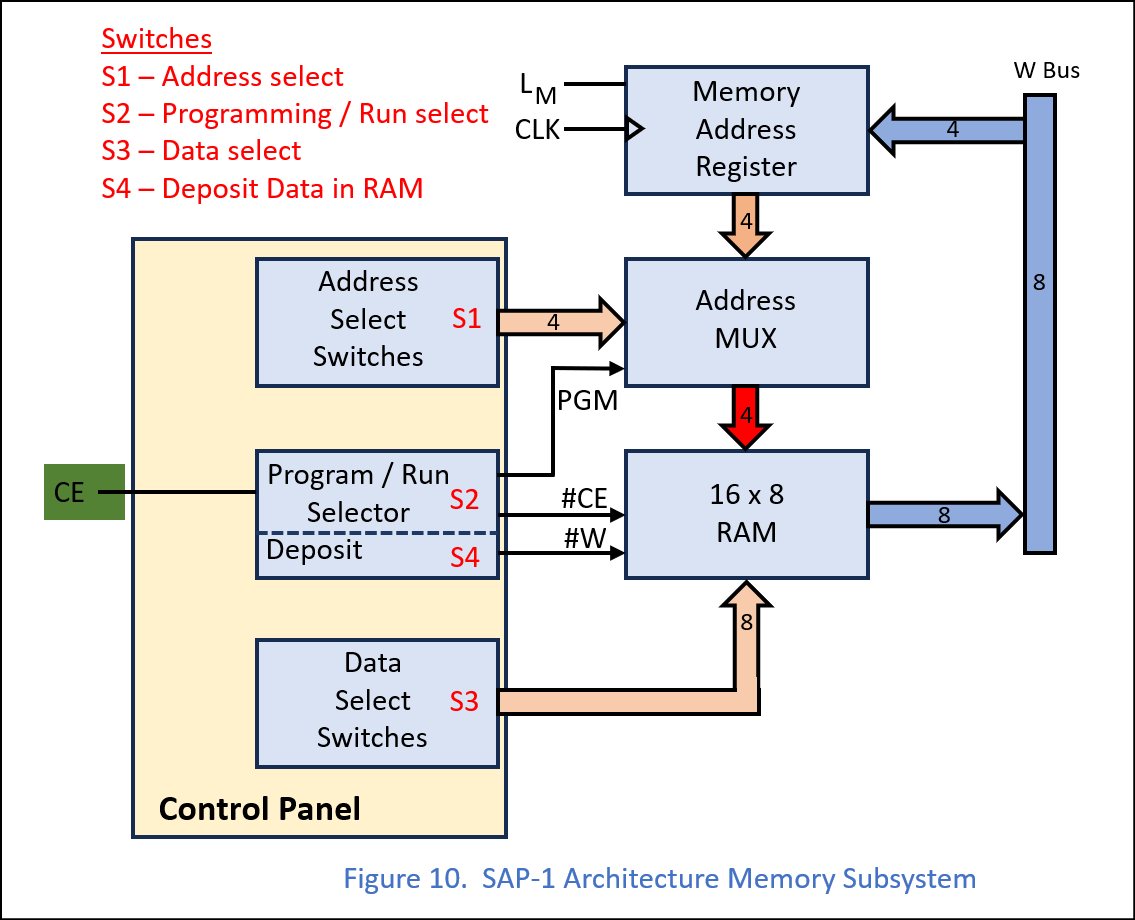
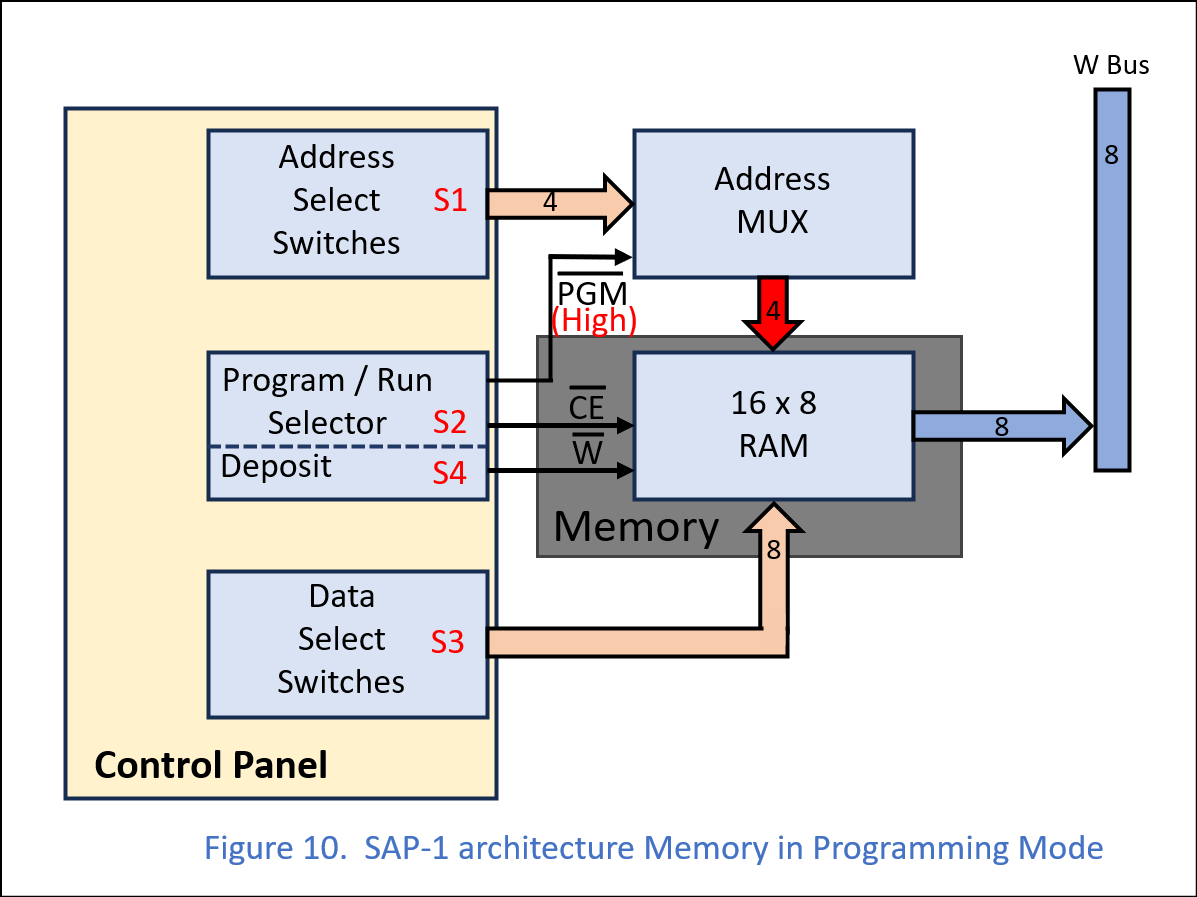
modified:   SAP-1_Computer/Pictures/Figure10.png

diff --git a/SAP-1_Computer/README.md b/SAP-1_Computer/README.md
@@ -100,19 +100,19 @@ From this Diagram the Multiplexer can be ignored and we can obtain a simpler and
 
 ![ Figure 9 ](https://github.com/LincaMarius/ISAP-1_Computer_Project/blob/main/SAP-1_Computer/Pictures/Figure9.png)
 
-Thus, the Memory of the SAP-1 Computer in Run Mode is used as a ROM memory. Control input #CE if high disables the output which is three-state, and if low at the output, the data from the address selected by the Memory Address Register is presented on the Bus.
+Thus, the Memory of the SAP-1 Computer in Run Mode is used as a ROM memory. Control input /CE if high disables the output which is three-state, and if low at the output, the data from the address selected by the Memory Address Register is presented on the Bus.
 
-In this case, the CE control signal has the #CE function for chip activation but also the #OE (Output Enable) function specific to ROM memories.
+In this case, the /CE control signal has the #CE function for chip activation but also the #OE (Output Enable) function specific to ROM memories.
 
-When switch S2 is in the “Program” Position, the PGM signal is high and causes the Address Multiplexer to select the address from the input connected to Address Select Switches S1.
+When switch S2 is in the “Program” Position, the /PGM signal is high and causes the Address Multiplexer to select the address from the input connected to Address Select Switches S1.
 
-The control input #CE is set low, so at the Memory output, the Data from the Address selected by the Address Select Switches S1 are presented on the Bus.
+The control input /CE is set low, so at the Memory output, the Data from the Address selected by the Address Select Switches S1 are presented on the Bus.
 
-If the S4 (Deposit) switch is pressed, the #W control signal is set to the low value, which causes the Data present at the input pins whose values are set by the switches marked S3 (Data Select Switches) to be written to the Selected Address.
+If the S4 (Deposit) switch is pressed, the /W control signal is set to the low value, which causes the Data present at the input pins whose values are set by the switches marked S3 (Data Select Switches) to be written to the Selected Address.
 
 The Block Diagram of the Memory Block in Programming Mode is as follows
 
-![ Figure 13 ](https://github.com/LincaMarius/ISAP-1_Computer_Project/blob/main/SAP-1_Computer/Pictures/Figure13.png)
+![ Figure 10 ](https://github.com/LincaMarius/ISAP-1_Computer_Project/blob/main/SAP-1_Computer/Pictures/Figure10.png)
 
 From this Diagram the Multiplexer can be ignored and we can obtain a simpler and easier to understand Diagram.
 
